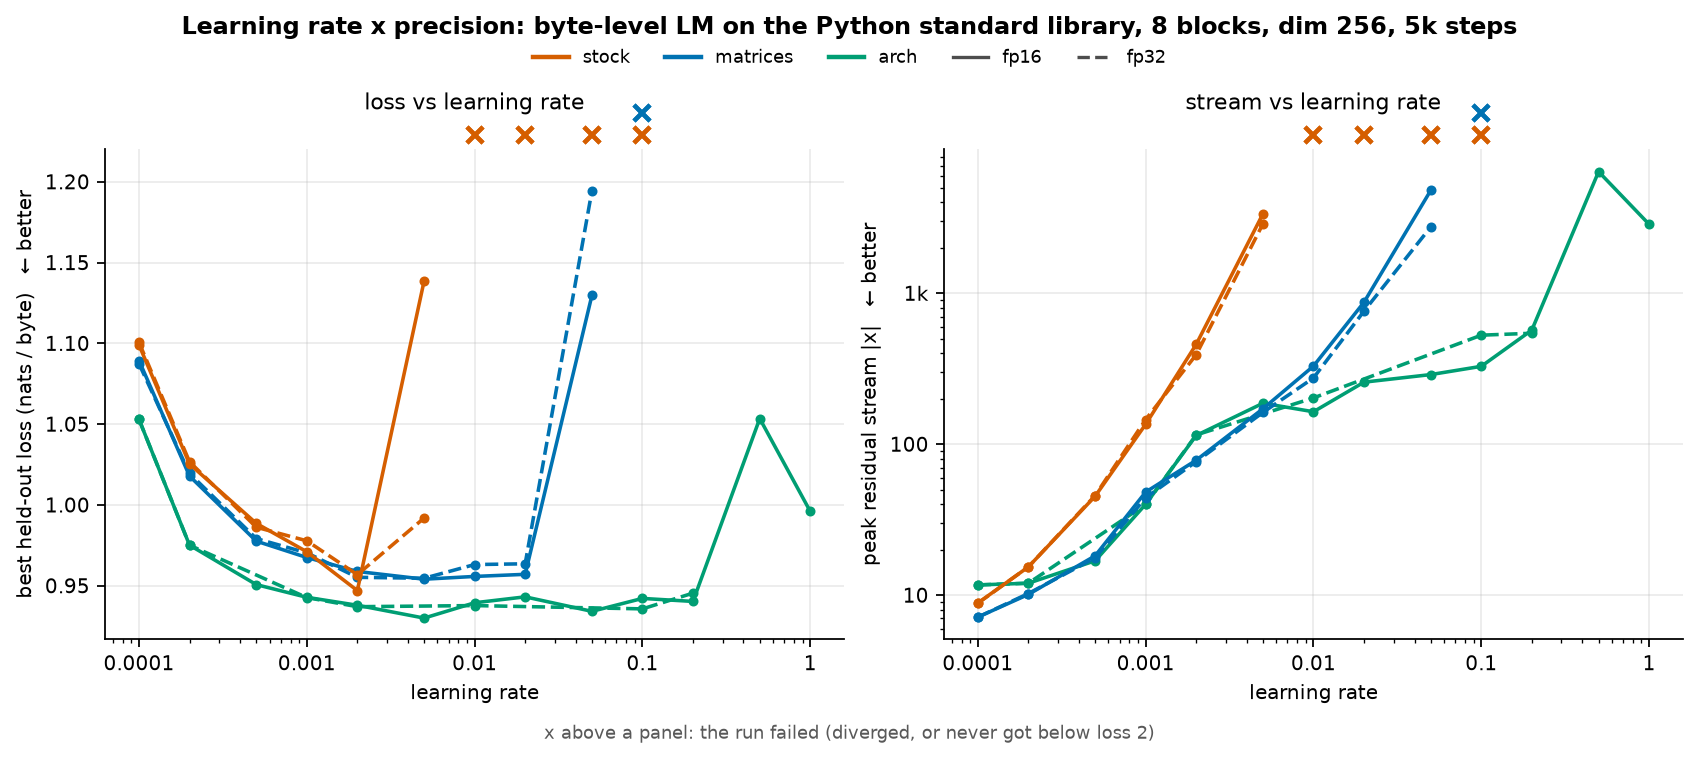
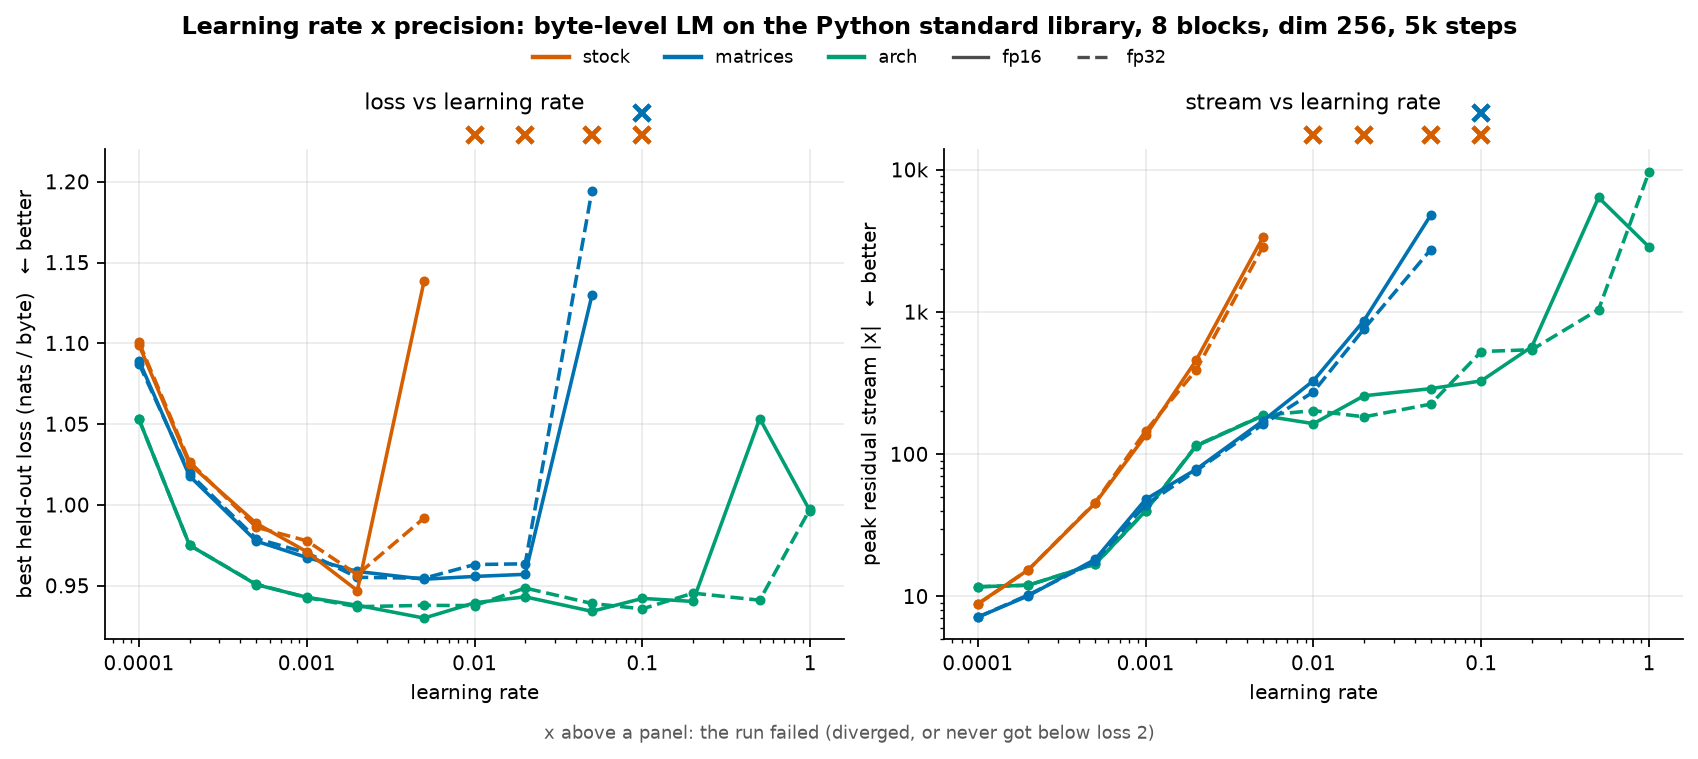
README: the finished arch learning-rate sweep
arch trains at every learning rate from 1e-4 to 1.0 in fp16 and fp32,
best loss 0.930 (fp16) and 0.936 (fp32); teaser and A figure redrawn
with all 21 runs.

diff --git a/README.md b/README.md
@@ -297,9 +297,10 @@ AdamW, constant learning rate, no weight decay, 5k steps unless stated.
 | matrices | fp16 | 0.954 (5e-3) | 5e-2 |
 | matrices | fp32 | 0.955 (5e-3) | 5e-2 |
 | arch | fp16 | 0.930 (5e-3) | 1.0 |
-| arch | fp32 | 0.936 (0.1) … | 0.2 … |
+| arch | fp32 | 0.936 (0.1) | 1.0 |
 
-fp32 fails where fp16 does: stock at lr 1e-2 and above ends near loss 2.4 with a stream of 1e6
+`arch` trains at every learning rate up to 1.0; past 0.2 its best loss rises (1.05 at 0.5, 1.00
+at 1.0 in fp16). fp32 fails where fp16 does: stock at lr 1e-2 and above ends near loss 2.4 with a stream of 1e6
 to 1e12 in fp32, and diverges in fp16. The precision is not the cause.
 
 **B: longer runs, 16k steps** at lr 2e-3 and 1e-2, fp16.
